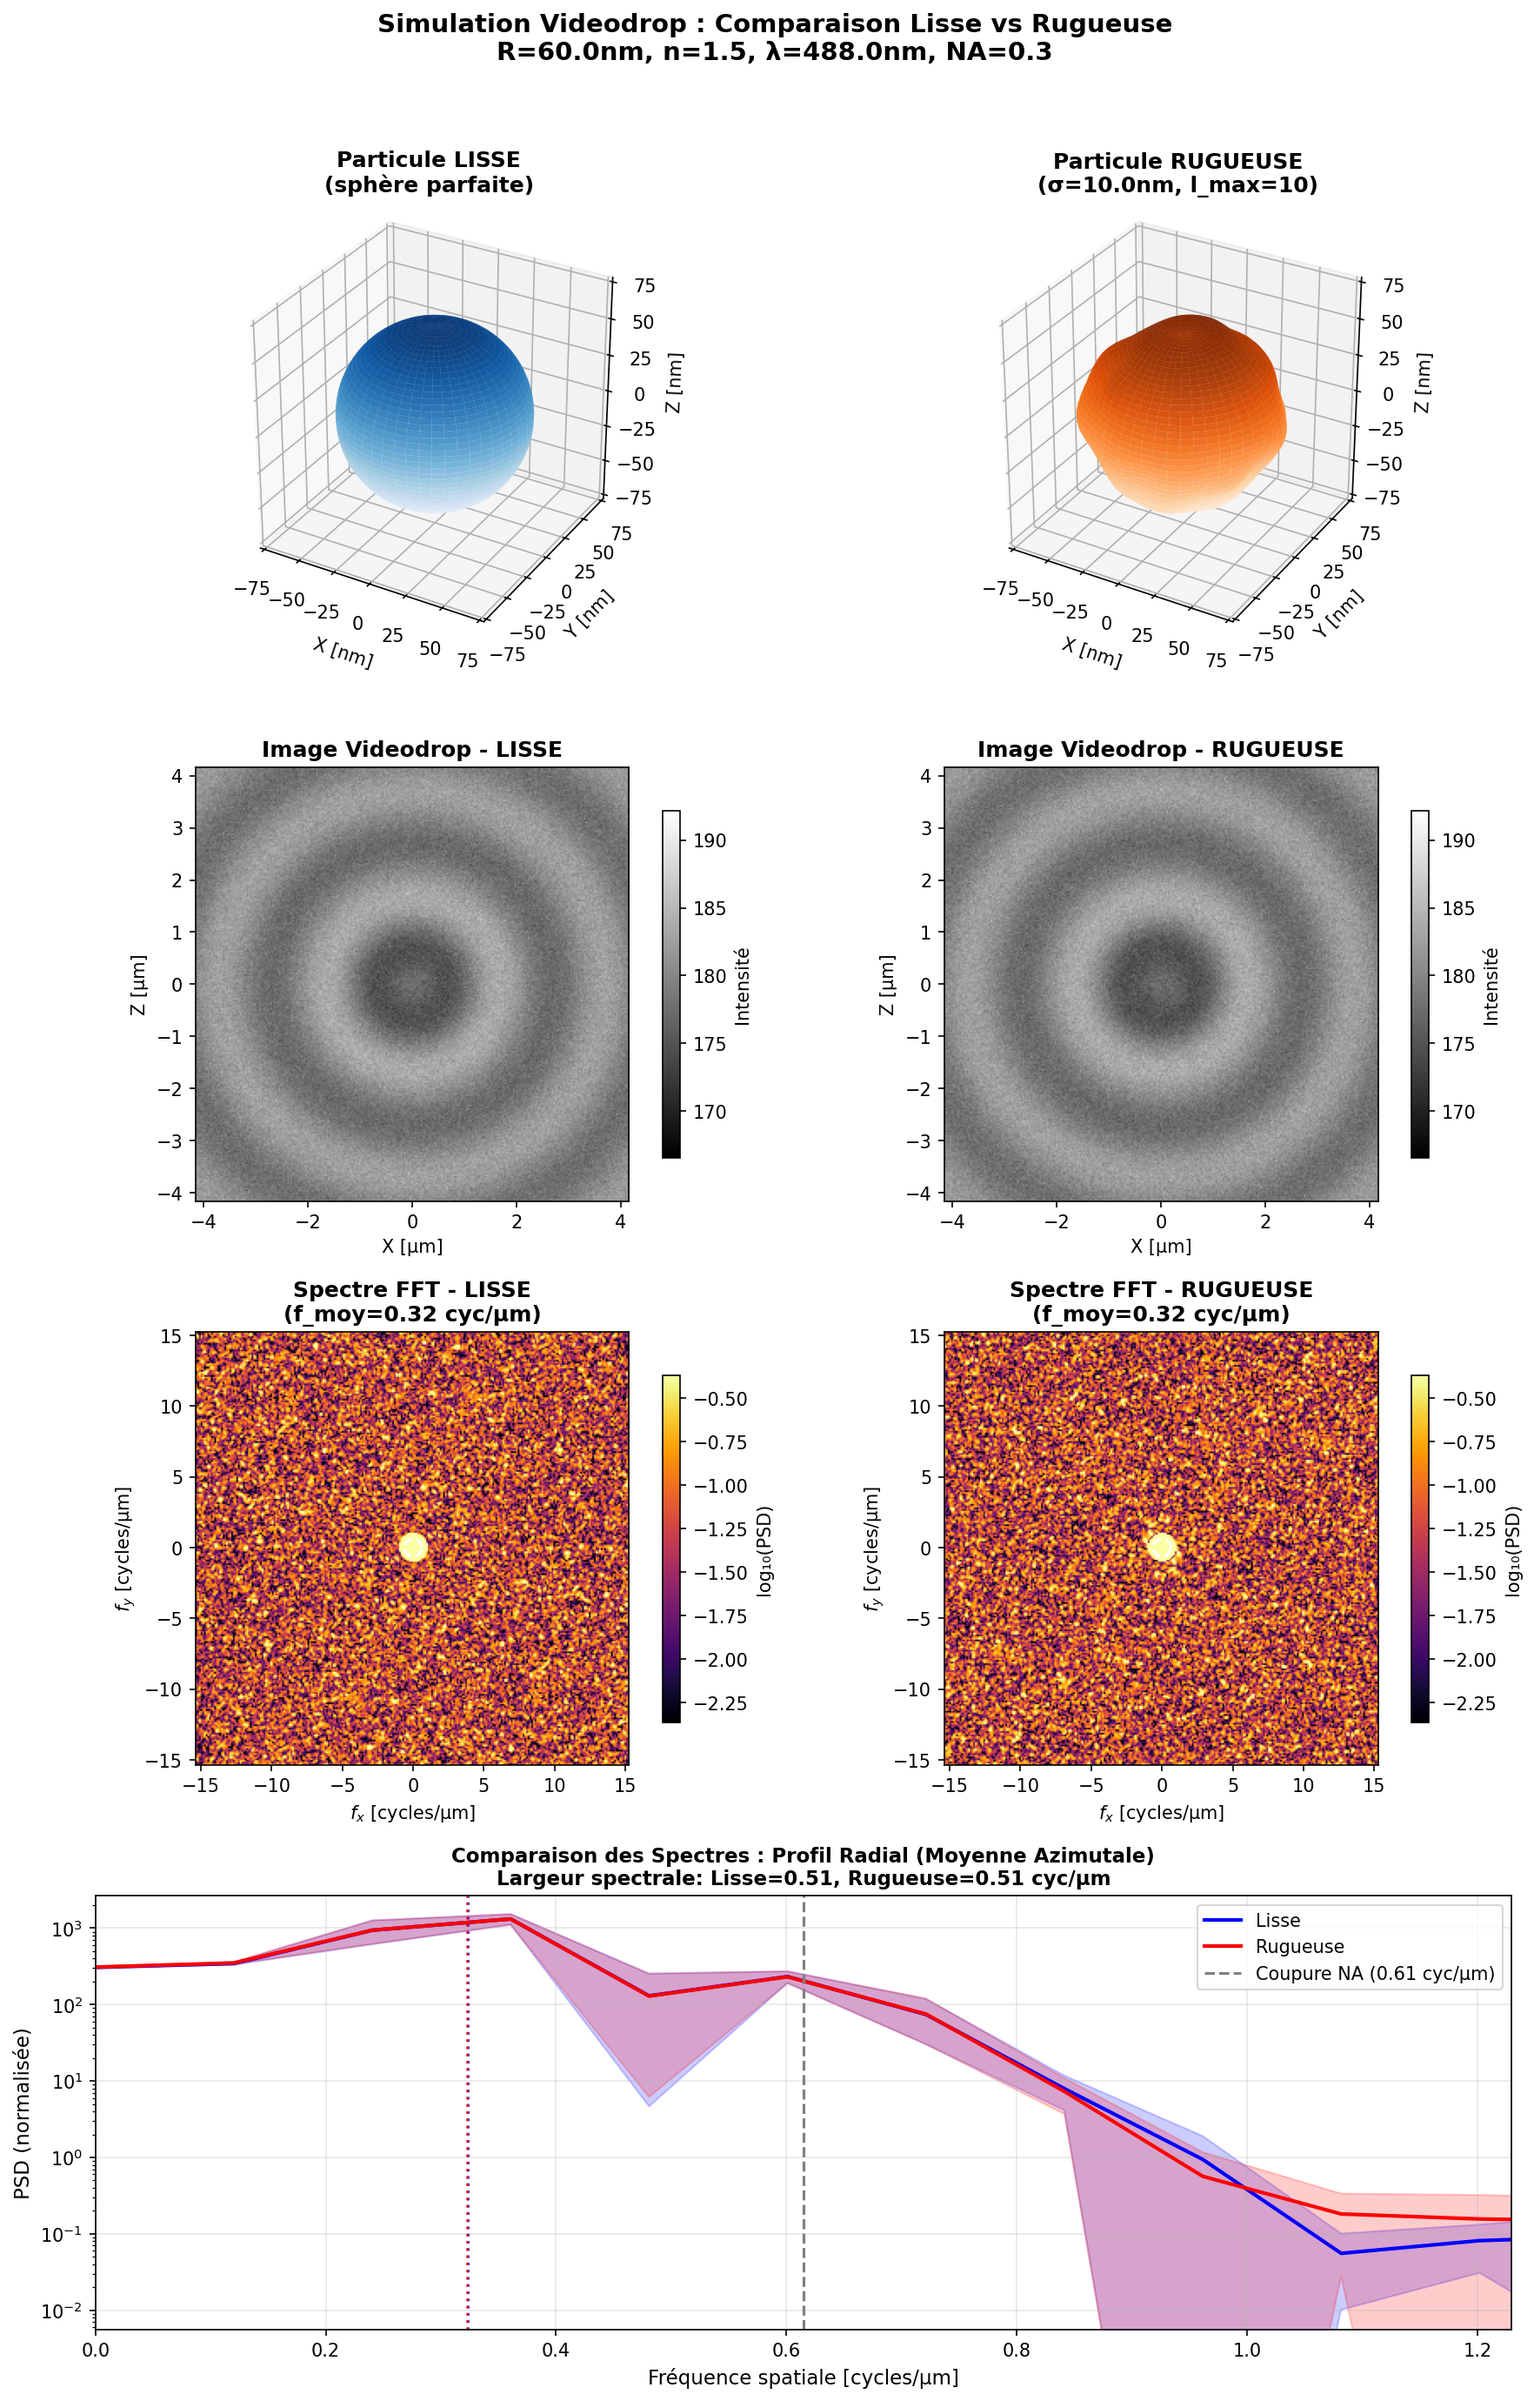
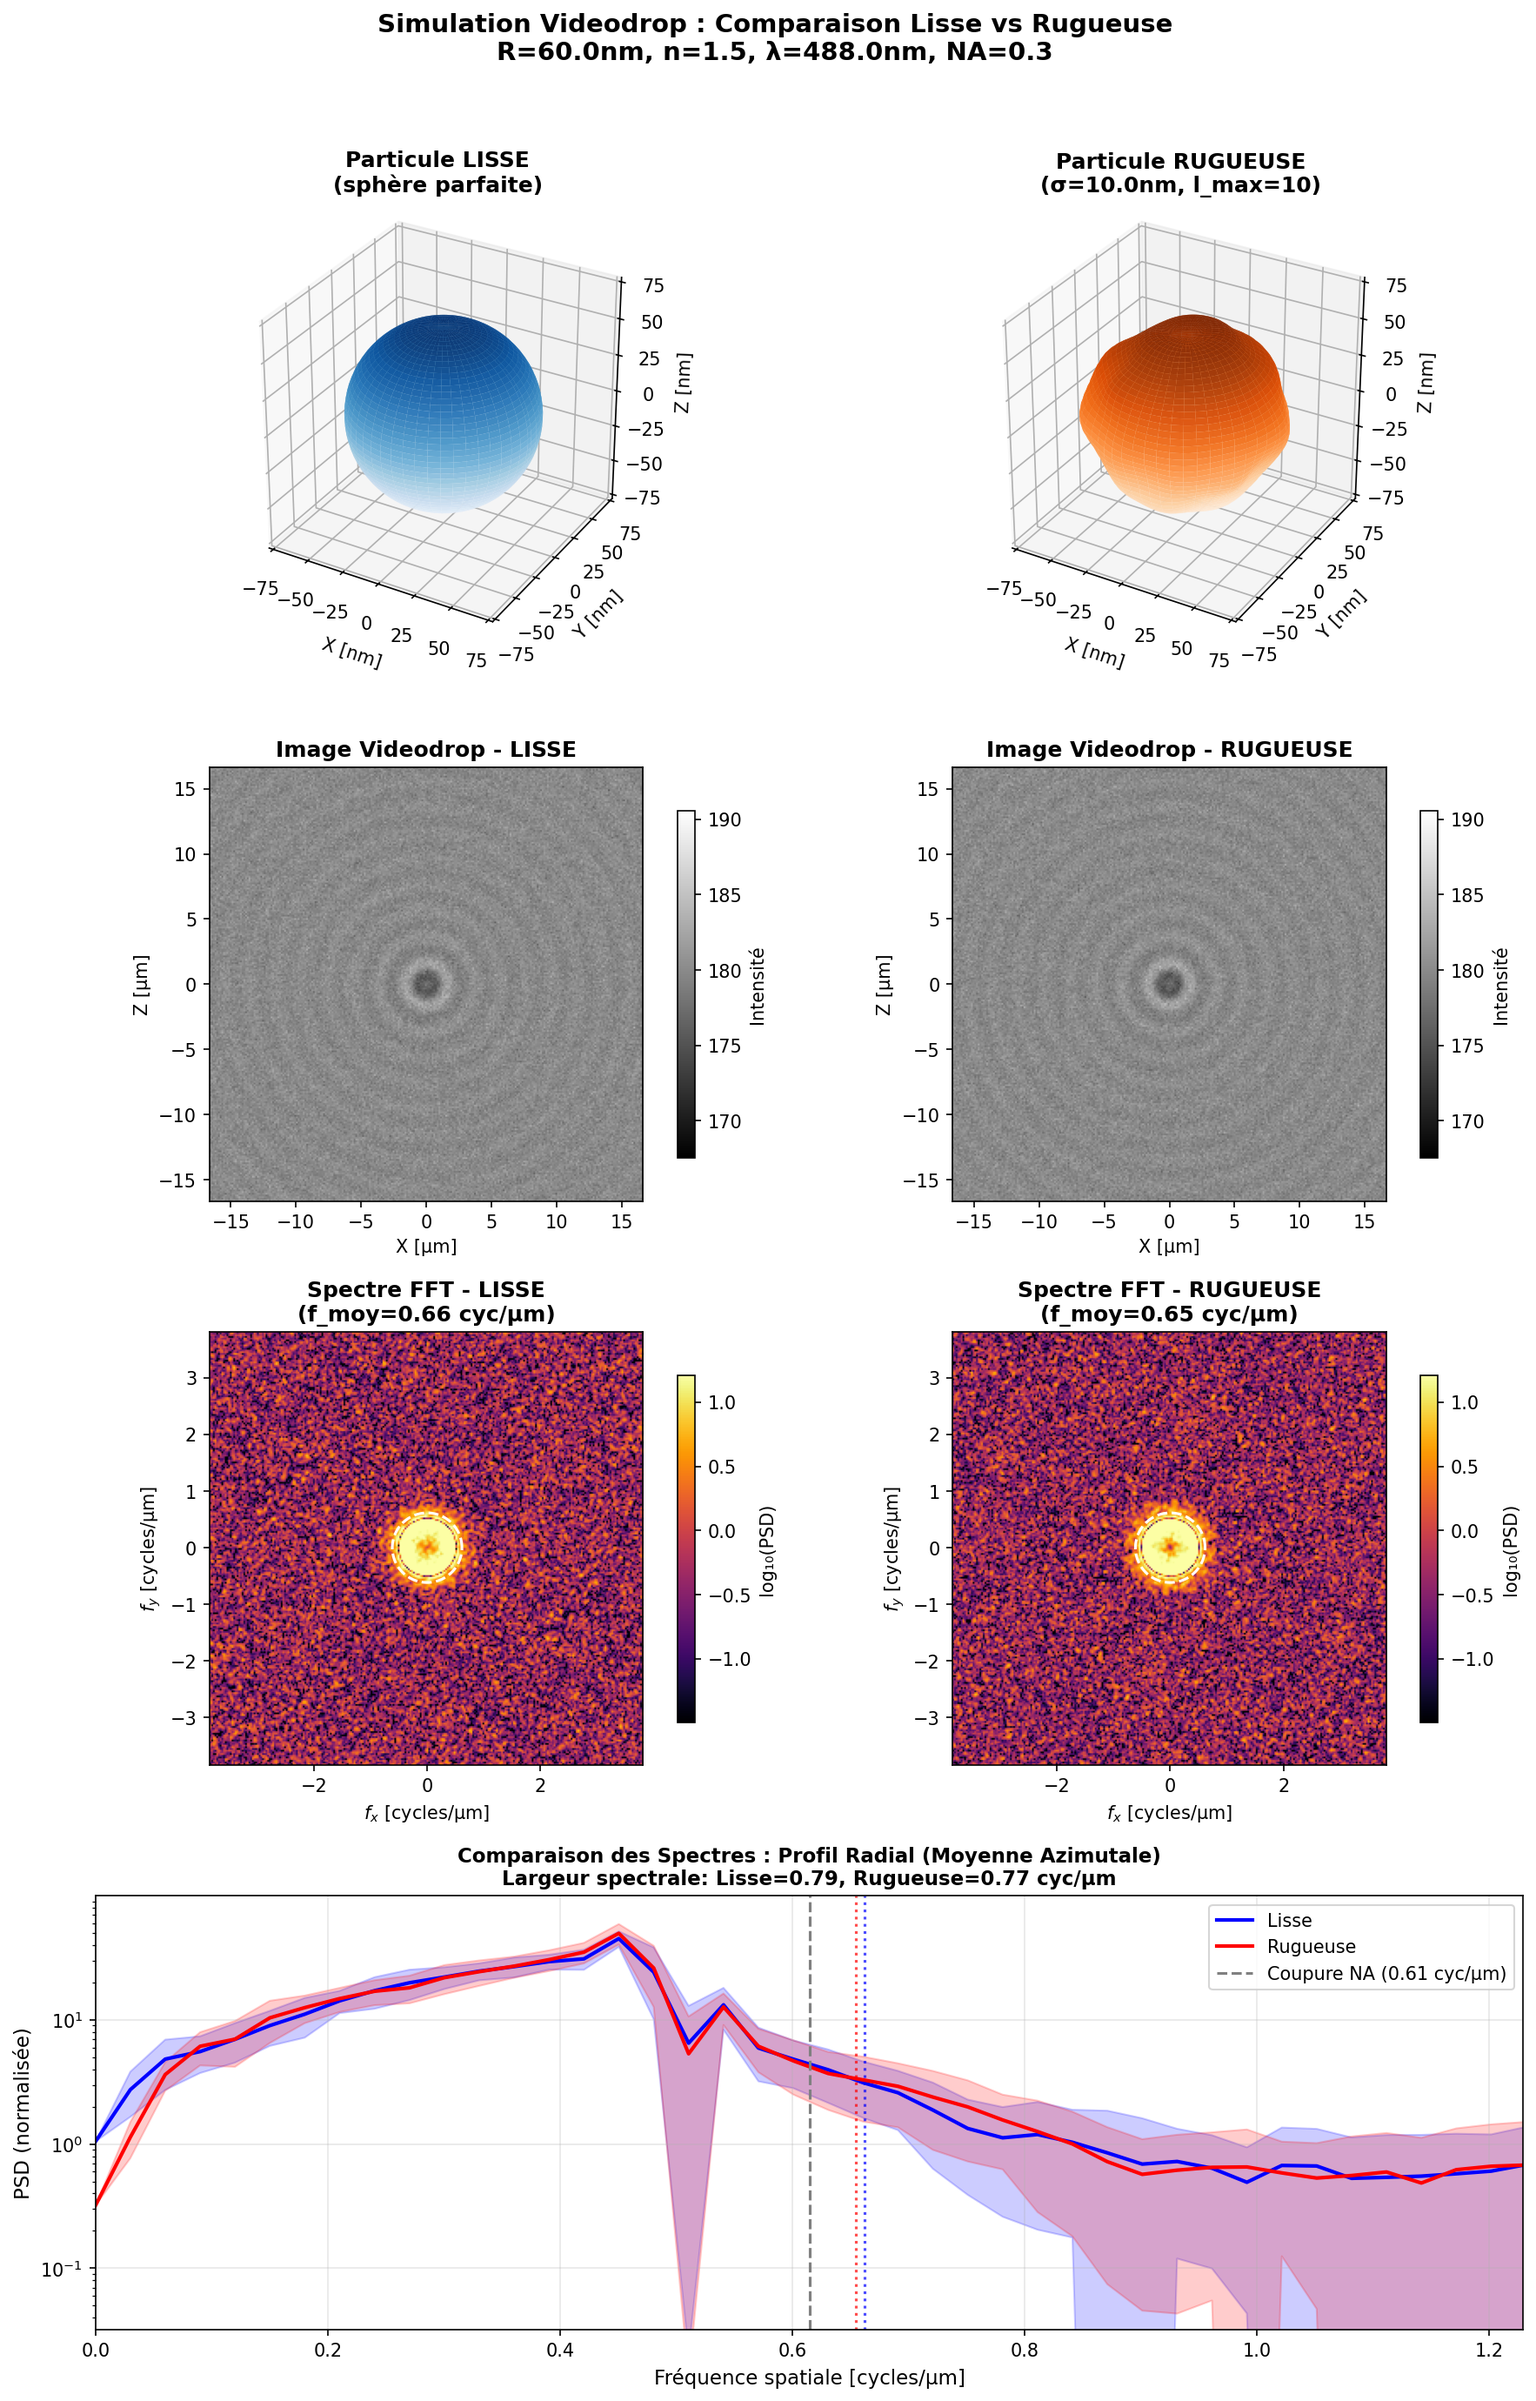
Add hyperparameters for simulation in nta_simulation.py and videodrop_simulation.py

diff --git a/nta_simulation.py b/nta_simulation.py
@@ -23,9 +23,36 @@ Différences avec Videodrop :
 ===============================================================================
 """
 
+# =============================================================================
+# HYPERPARAMÈTRES DE SIMULATION
+# =============================================================================
+# Modifier ces valeurs pour changer les paramètres de simulation
+
+HYPERPARAMS = {
+    # Particule
+    'radius_nm': 200.0,             # Rayon de la particule [nm]
+    'roughness_nm': 50.0,           # Amplitude RMS de la rugosité [nm]
+    'roughness_lmax': 10,           # Ordre max des harmoniques sphériques
+    'refractive_index': 1.50,       # Indice de réfraction (polystyrène)
+    
+    # Optique (Laser)
+    'wavelength_nm': 532.0,         # Longueur d'onde LASER [nm]
+    'numerical_aperture': 0.4,      # Ouverture numérique
+    
+    # Image
+    'image_pixels': 256,            # Résolution de l'image [pixels]
+    
+    # Sauvegarde
+    'save_path': 'nta_comparison.png',  # Fichier de sortie (None = pas de sauvegarde)
+    
+    # Mode démo d⁶ (si True, lance la démo au lieu de la comparaison)
+    'demo_d6': False,
+}
+
+# =============================================================================
+
 import numpy as np
 import matplotlib.pyplot as plt
-import argparse
 from dataclasses import dataclass
 from typing import Tuple, Optional, List
 
@@ -1066,48 +1093,21 @@ def demo_d6_effect(
 # =============================================================================
 
 if __name__ == "__main__":
-    import sys
-    
-    parser = argparse.ArgumentParser(
-        description="Simulation NTA - Nanoparticle Tracking Analysis (Dark Field Scattering)"
-    )
-    parser.add_argument("--radius", type=float, default=100.0,
-                       help="Rayon de la particule [nm]")
-    parser.add_argument("--roughness", type=float, default=5.0,
-                       help="Amplitude RMS de la rugosité [nm]")
-    parser.add_argument("--lmax", type=int, default=10,
-                       help="Ordre max des harmoniques sphériques")
-    parser.add_argument("--n-particle", type=float, default=1.50,
-                       help="Indice de réfraction")
-    parser.add_argument("--wavelength", type=float, default=532.0,
-                       help="Longueur d'onde du laser [nm]")
-    parser.add_argument("--na", type=float, default=0.4,
-                       help="Ouverture numérique")
-    parser.add_argument("--pixels", type=int, default=256,
-                       help="Taille de l'image [pixels]")
-    parser.add_argument("--save", type=str, default="nta_comparison.png",
-                       help="Fichier de sortie")
-    parser.add_argument("--no-save", action="store_true",
-                       help="Ne pas sauvegarder")
-    parser.add_argument("--demo-d6", action="store_true",
-                       help="Lancer la démonstration de l'effet d⁶")
-    
-    args = parser.parse_args()
-    
-    if args.demo_d6:
+    # Utilise les hyperparamètres définis en début de fichier
+    if HYPERPARAMS['demo_d6']:
         demo_d6_effect(
-            wavelength_nm=args.wavelength,
-            numerical_aperture=args.na,
-            save_path=None if args.no_save else "nta_d6_demo.png"
+            wavelength_nm=HYPERPARAMS['wavelength_nm'],
+            numerical_aperture=HYPERPARAMS['numerical_aperture'],
+            save_path='nta_d6_demo.png' if HYPERPARAMS['save_path'] else None
         )
     else:
         run_comparison(
-            radius_nm=args.radius,
-            roughness_nm=args.roughness,
-            roughness_lmax=args.lmax,
-            refractive_index=args.n_particle,
-            wavelength_nm=args.wavelength,
-            numerical_aperture=args.na,
-            image_pixels=args.pixels,
-            save_path=None if args.no_save else args.save
+            radius_nm=HYPERPARAMS['radius_nm'],
+            roughness_nm=HYPERPARAMS['roughness_nm'],
+            roughness_lmax=HYPERPARAMS['roughness_lmax'],
+            refractive_index=HYPERPARAMS['refractive_index'],
+            wavelength_nm=HYPERPARAMS['wavelength_nm'],
+            numerical_aperture=HYPERPARAMS['numerical_aperture'],
+            image_pixels=HYPERPARAMS['image_pixels'],
+            save_path=HYPERPARAMS['save_path']
         )

diff --git a/videodrop_simulation.py b/videodrop_simulation.py
@@ -17,6 +17,31 @@ Principe physique :
 ===============================================================================
 """
 
+# =============================================================================
+# HYPERPARAMÈTRES DE SIMULATION
+# =============================================================================
+# Modifier ces valeurs pour changer les paramètres de simulation
+
+HYPERPARAMS = {
+    # Particule
+    'radius_nm': 60.0,              # Rayon de la particule [nm]
+    'roughness_nm': 10.0,           # Amplitude RMS de la rugosité [nm]
+    'roughness_lmax': 10,           # Ordre max des harmoniques sphériques
+    'refractive_index': 1.50,       # Indice de réfraction (polystyrène)
+    
+    # Optique
+    'wavelength_nm': 488.0,         # Longueur d'onde LED [nm]
+    'numerical_aperture': 0.3,      # Ouverture numérique
+    
+    # Image
+    'image_pixels': 256,            # Résolution de l'image [pixels]
+    
+    # Sauvegarde
+    'save_path': 'videodrop_comparison.png',  # Fichier de sortie (None = pas de sauvegarde)
+}
+
+# =============================================================================
+
 import numpy as np
 import matplotlib.pyplot as plt
 from dataclasses import dataclass
@@ -879,39 +904,14 @@ COMPARAISON SPECTRALE:
 # =============================================================================
 
 if __name__ == "__main__":
-    import argparse
-    
-    parser = argparse.ArgumentParser(
-        description="Simulation Videodrop - Comparaison particule lisse vs rugueuse"
-    )
-    parser.add_argument("--radius", type=float, default=80.0,
-                       help="Rayon de la particule [nm]")
-    parser.add_argument("--roughness", type=float, default=5.0,
-                       help="Amplitude RMS de la rugosité [nm]")
-    parser.add_argument("--lmax", type=int, default=10,
-                       help="Ordre max des harmoniques sphériques")
-    parser.add_argument("--n-particle", type=float, default=1.50,
-                       help="Indice de réfraction")
-    parser.add_argument("--wavelength", type=float, default=488.0,
-                       help="Longueur d'onde [nm]")
-    parser.add_argument("--na", type=float, default=0.3,
-                       help="Ouverture numérique")
-    parser.add_argument("--pixels", type=int, default=256,
-                       help="Taille de l'image [pixels]")
-    parser.add_argument("--save", type=str, default="videodrop_comparison.png",
-                       help="Fichier de sortie")
-    parser.add_argument("--no-save", action="store_true",
-                       help="Ne pas sauvegarder")
-    
-    args = parser.parse_args()
-    
+    # Utilise les hyperparamètres définis en début de fichier
     run_comparison(
-        radius_nm=args.radius,
-        roughness_nm=args.roughness,
-        roughness_lmax=args.lmax,
-        refractive_index=args.n_particle,
-        wavelength_nm=args.wavelength,
-        numerical_aperture=args.na,
-        image_pixels=args.pixels,
-        save_path=None if args.no_save else args.save
+        radius_nm=HYPERPARAMS['radius_nm'],
+        roughness_nm=HYPERPARAMS['roughness_nm'],
+        roughness_lmax=HYPERPARAMS['roughness_lmax'],
+        refractive_index=HYPERPARAMS['refractive_index'],
+        wavelength_nm=HYPERPARAMS['wavelength_nm'],
+        numerical_aperture=HYPERPARAMS['numerical_aperture'],
+        image_pixels=HYPERPARAMS['image_pixels'],
+        save_path=HYPERPARAMS['save_path']
     )
